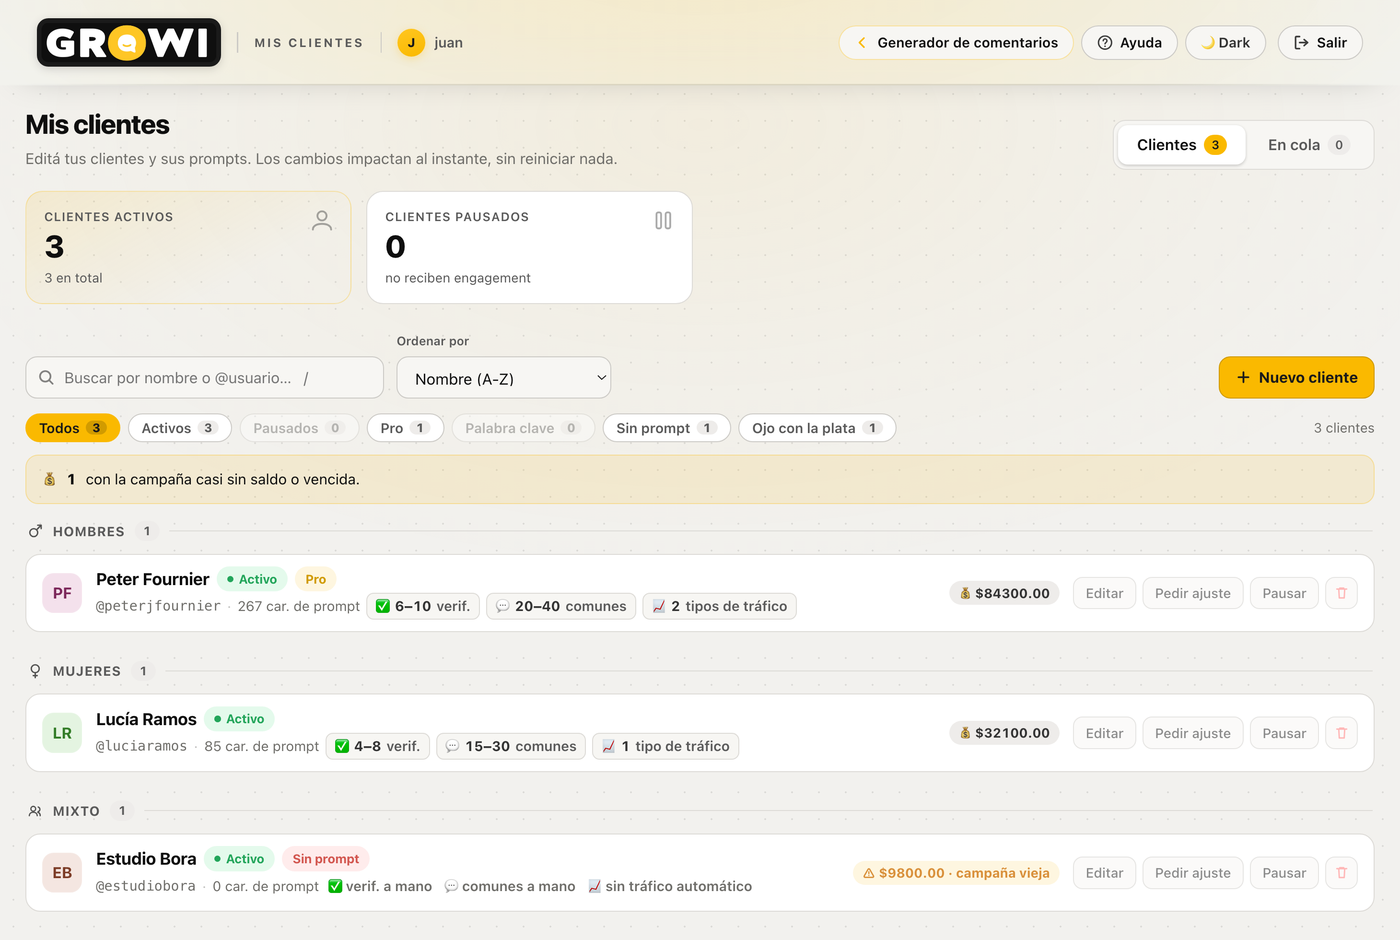
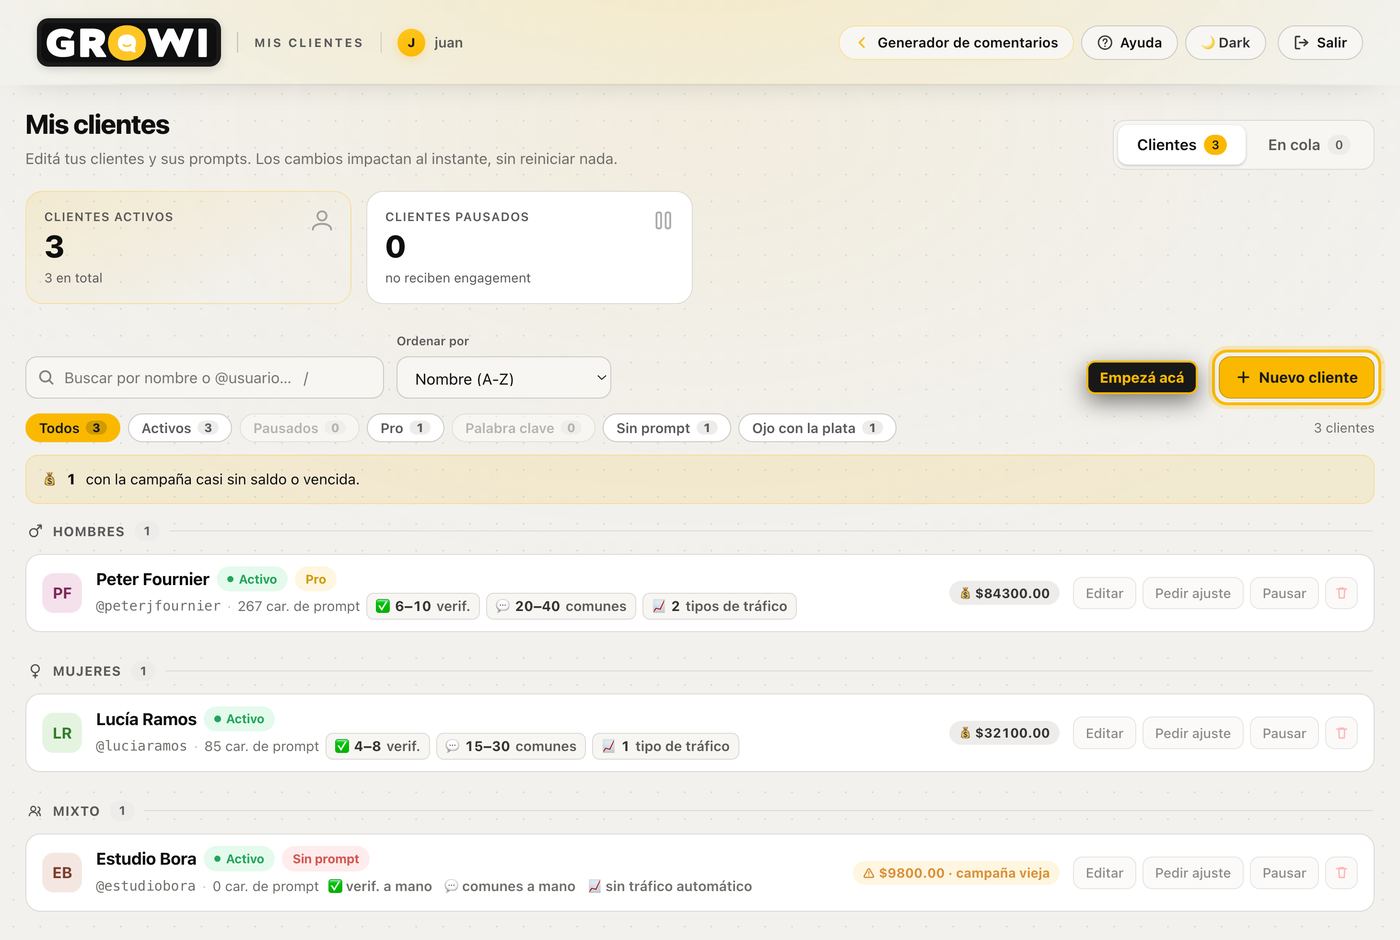
ayuda

Changed region(s): [[0.7679, 0.3702, 1.0, 0.4628]]

diff --git a/webService/templates/ayuda.html b/webService/templates/ayuda.html
@@ -54,10 +54,14 @@
     .ob-step h3 { font-size: 1.01rem; font-weight: 750; letter-spacing: -.01em; }
     .ob-step > div > p { margin-top: 6px; font-size: .87rem; color: var(--muted); line-height: 1.65; max-width: 68ch; }
     .ob-step p b { color: var(--text); font-weight: 650; }
-    .ob-where { display: inline-flex; align-items: center; gap: 6px; margin-top: 8px; font-size: .74rem;
-      color: var(--faint); background: var(--surface2); border: 1px solid var(--border);
-      border-radius: 7px; padding: 4px 9px; }
-    .ob-where b { color: var(--text); font-weight: 650; }
+    /* Abre el panel en otra pestaña: la guía se sigue leyendo al lado mientras
+       se carga el cliente. */
+    .ob-where { display: inline-flex; align-items: center; gap: 7px; margin-top: 10px; font-size: .78rem;
+      color: var(--text); background: var(--surface2); border: 1px solid var(--border);
+      border-radius: 9px; padding: 7px 12px; text-decoration: none; font-weight: 600; }
+    .ob-where:hover { border-color: var(--yellow); background: var(--surface3); }
+    .ob-where b { color: var(--yellow); font-weight: 750; }
+    .ob-where svg { opacity: .65; }
 
     /* Aviso puntual dentro de un paso. */
     .ob-tip { display: flex; gap: 9px; margin-top: 11px; font-size: .82rem; color: var(--muted);
@@ -156,9 +160,9 @@
       </div>
       <div class="header-actions">
         <div class="header-btn-group">
-          <a class="header-action-btn header-action-btn--primary" href="{% if is_admin %}/admin{% else %}/mis-clientes{% endif %}" title="Ir a cargar clientes">
+          <a class="header-action-btn header-action-btn--primary" href="/mis-clientes" target="_blank" rel="noopener" title="Abrir Mis clientes en otra pestaña">
             <svg width="14" height="14" viewBox="0 0 16 16" fill="none"><path d="M8 9a2.2 2.2 0 100-4.4A2.2 2.2 0 008 9z" stroke="currentColor" stroke-width="1.4"/><path d="M2.5 13.5c.7-2.1 2.9-3.1 5.5-3.1s4.8 1 5.5 3.1" stroke="currentColor" stroke-width="1.4" stroke-linecap="round"/></svg>
-            <span>{% if is_admin %}Admin{% else %}Mis clientes{% endif %}</span>
+            <span>Mis clientes</span>
           </a>
           <a class="header-action-btn" href="/" title="Generador de comentarios">
             <svg width="14" height="14" viewBox="0 0 16 16" fill="none"><path d="M2.5 3.5h11v7h-6l-3 2.5v-2.5h-2v-7z" stroke="currentColor" stroke-width="1.4" stroke-linejoin="round"/></svg>
@@ -183,6 +187,11 @@
         <div class="ob-kicker">Onboarding</div>
         <h1>Cargar un cliente, de principio a fin</h1>
         <p>Ocho pasos. Al final tenés una ficha lista y el primer post generándose.</p>
+        <!-- Se trabaja con las dos pestañas al lado: la guía acá, el panel allá. -->
+        <a class="ob-where" href="/mis-clientes" target="_blank" rel="noopener">
+          Abrí <b>Mis clientes</b> en otra pestaña y seguí la guía de este lado
+          <svg width="12" height="12" viewBox="0 0 16 16" fill="none"><path d="M6 2.5h7.5V10" stroke="currentColor" stroke-width="1.6" stroke-linecap="round" stroke-linejoin="round"/><path d="M13.5 2.5L7 9" stroke="currentColor" stroke-width="1.6" stroke-linecap="round"/><path d="M11 13.5H2.5V5" stroke="currentColor" stroke-width="1.6" stroke-linecap="round" stroke-linejoin="round"/></svg>
+        </a>
       </div>
 
       <div class="ob-cols">
@@ -210,7 +219,10 @@
             <div>
               <h3>Abrí la lista de clientes</h3>
               <p>Es la pantalla donde vive todo: una ficha por cada cuenta de Instagram que atendés. Si recién arrancás, está vacía.</p>
-              <div class="ob-where">📍 Header → <b>{% if is_admin %}Admin{% else %}Mis clientes{% endif %}</b></div>
+              <a class="ob-where" href="/mis-clientes" target="_blank" rel="noopener">
+                Abrir <b>Mis clientes</b> en otra pestaña
+                <svg width="12" height="12" viewBox="0 0 16 16" fill="none"><path d="M6 2.5h7.5V10" stroke="currentColor" stroke-width="1.6" stroke-linecap="round" stroke-linejoin="round"/><path d="M13.5 2.5L7 9" stroke="currentColor" stroke-width="1.6" stroke-linecap="round"/><path d="M11 13.5H2.5V5" stroke="currentColor" stroke-width="1.6" stroke-linecap="round" stroke-linejoin="round"/></svg>
+              </a>
               <figure class="ob-fig">
                 <img class="ob-dark" src="/static/onboarding/paso-1.png?v=1" alt="Paso 1" onclick="zoom(this)" />
                 <img class="ob-light" src="/static/onboarding/paso-1-light.png?v=1" alt="Paso 1" onclick="zoom(this)" />
@@ -315,7 +327,10 @@
               <h3>Guardá y probá con un post real</h3>
               <p>Los cambios impactan al instante: no hay que publicar ni reiniciar nada. Andá al generador, pegá un post de ese cliente y fijate que arriba de la lista aparezca su nombre — eso confirma que el @usuario quedó bien.</p>
               <p>Leé los primeros comentarios antes de publicar. Si no suenan al cliente, el prompt necesita otra vuelta: es normal ajustarlo dos o tres veces la primera semana.</p>
-              <div class="ob-where">📍 Header → <b>Comentarios</b> → pegar el link</div>
+              <a class="ob-where" href="/" target="_blank" rel="noopener">
+                Abrir el <b>generador</b> en otra pestaña
+                <svg width="12" height="12" viewBox="0 0 16 16" fill="none"><path d="M6 2.5h7.5V10" stroke="currentColor" stroke-width="1.6" stroke-linecap="round" stroke-linejoin="round"/><path d="M13.5 2.5L7 9" stroke="currentColor" stroke-width="1.6" stroke-linecap="round"/><path d="M11 13.5H2.5V5" stroke="currentColor" stroke-width="1.6" stroke-linecap="round" stroke-linejoin="round"/></svg>
+              </a>
               <figure class="ob-fig">
                 <img class="ob-dark" src="/static/onboarding/paso-8.png?v=1" alt="Paso 8" onclick="zoom(this)" />
                 <img class="ob-light" src="/static/onboarding/paso-8-light.png?v=1" alt="Paso 8" onclick="zoom(this)" />
@@ -396,7 +411,7 @@
             </details>
           </section>
 
-          <p class="ob-foot">¿Falta algo? Pedile a tu administrador que lo sume. <a href="{% if is_admin %}/admin{% else %}/mis-clientes{% endif %}">Ir a cargar un cliente</a></p>
+          <p class="ob-foot">¿Falta algo? Pedile a tu administrador que lo sume. <a href="/mis-clientes" target="_blank" rel="noopener">Ir a cargar un cliente ↗</a></p>
         </div>
       </div>
 

diff --git a/scripts/capturas_onboarding/harness.py b/scripts/capturas_onboarding/harness.py
@@ -74,6 +74,22 @@ def api_response(path):
     return {}
 
 
+
+# Marcas que se dibujan encima de cada captura: (selector, texto, lado).
+# Se pintan en el navegador, así las coordenadas son exactas y quedan dentro
+# del PNG (también se ven al abrir la captura en grande).
+ANOTACIONES = {
+    "lista":             [("#btn-new-client", "Empezá acá", "izq")],
+    "ficha-nueva":       [(".ax-prompt-teaser", "Acá adentro se escribe el prompt", "abajo")],
+    "ficha:identidad":   [("#client-ig", "Igual que en Instagram: sin @ ni espacios", "abajo")],
+    "ficha:prompt":      [("#client-keyword-field", "Sólo para posts de sorteo", "arriba")],
+    "ficha:calidad":     [('.ax-field:has(#client-quality) .ax-opt-b[data-val="pro"]',
+                           "Más caro: sólo si el cliente lo nota", "arriba")],
+    "ficha:comentarios": [(".ax-com-card:has(#com-comunes-min)", "Estos salen en 2 tandas", "arriba")],
+    "ficha:trafico":     [("#client-venta", "De acá sale la plata", "arriba")],
+    "gen":               [("#ig-link", "Pegá el link del post", "abajo")],
+}
+
 # Se inyecta antes del JS de la app. Prepara la escena de cada captura (?shot=)
 # una vez que la interfaz terminó de renderizar.
 SHOT_JS = r"""
@@ -84,6 +100,52 @@ window.__shot = _p.get("shot") || "";
 if (_p.get("tema") === "light") {
   document.addEventListener("DOMContentLoaded", () => document.body.classList.add("light"));
 }
+
+// ── Marcas encima de la captura ─────────────────────────────────────────────
+// Un aro amarillo sobre el elemento y un cartelito al lado. Se dibujan al final,
+// cuando la escena ya está armada: antes las coordenadas serían las de otro
+// layout.
+const ANOTACIONES = __ANOTACIONES__;
+function dibujarMarcas() {
+  for (const [sel, texto, lado] of ANOTACIONES) {
+    const el = document.querySelector(sel);
+    if (!el) { console.warn("anotación sin elemento:", sel); continue; }
+    const r = el.getBoundingClientRect();
+    // Si el elemento quedó fuera de la captura, el cartel se pegaría contra un
+    // borde señalando a la nada: mejor no dibujar nada.
+    if (r.bottom > window.innerHeight - 8 || r.top < 8) {
+      console.warn("anotación fuera de la captura:", sel); continue;
+    }
+    // Las coordenadas del rect ya vienen con el zoom de .app aplicado; el
+    // overlay va en el body (sin zoom), así que se usan tal cual.
+    const aro = document.createElement("div");
+    aro.style.cssText = `position:fixed;left:${r.left - 7}px;top:${r.top - 7}px;
+      width:${r.width + 14}px;height:${r.height + 14}px;border:3px solid #FAB900;
+      border-radius:${Math.min(16, r.height / 2 + 8)}px;box-shadow:0 0 0 4px rgba(250,185,0,.22);
+      pointer-events:none;z-index:9999;`;
+    document.body.appendChild(aro);
+
+    const cartel = document.createElement("div");
+    cartel.textContent = texto;
+    cartel.style.cssText = `position:fixed;z-index:9999;background:#181818;color:#FAB900;
+      border:2px solid #FAB900;font-family:Inter,system-ui,sans-serif;font-weight:750;
+      font-size:15px;line-height:1.25;padding:6px 12px;border-radius:9px;max-width:290px;
+      box-shadow:0 8px 24px rgba(0,0,0,.5);`;
+    document.body.appendChild(cartel);
+    const c = cartel.getBoundingClientRect();
+    let x, y;
+    if (lado === "izq")        { x = r.left - c.width - 22;  y = r.top + r.height / 2 - c.height / 2; }
+    else if (lado === "arriba"){ x = r.left;                 y = r.top - c.height - 16; }
+    else                       { x = r.left;                 y = r.bottom + 16; }
+    // Que no se vaya de la captura.
+    x = Math.max(12, Math.min(x, window.innerWidth - c.width - 12));
+    y = Math.max(12, Math.min(y, window.innerHeight - c.height - 12));
+    cartel.style.left = x + "px";
+    cartel.style.top = y + "px";
+
+  }
+}
+
 window.addEventListener("load", () => setTimeout(() => {
   const s = window.__shot;
   // Deja en la página SOLO el elemento pedido, con un margen parejo alrededor.
@@ -100,17 +162,17 @@ window.addEventListener("load", () => setTimeout(() => {
     w.classList.add("app");
   };
 
-  if (!s.startsWith("ficha")) return;             // la pantalla entera
+  if (!s.startsWith("ficha")) { dibujarMarcas(); return; }   // la pantalla entera
 
   openClientModal(s === "ficha-nueva" ? undefined : 1);
   setTimeout(() => {
     const modal = document.querySelector("#client-mo .ax-modal");
-    if (s === "ficha" || s === "ficha-nueva") { modal.style.maxHeight = "none"; solo(modal); return; }
+    if (s === "ficha" || s === "ficha-nueva") { modal.style.maxHeight = "none"; solo(modal); setTimeout(dibujarMarcas, 60); return; }
     // El editor del prompt sólo existe a pantalla completa: el modal normal
     // muestra el teaser, no el textarea.
     if (s === "ficha:prompt") {
       togglePromptFull();
-      setTimeout(() => { modal.style.height = "620px"; solo(modal); }, 250);
+      setTimeout(() => { modal.style.height = "620px"; solo(modal); setTimeout(dibujarMarcas, 60); }, 250);
       return;
     }
     const que = s.split(":")[1];
@@ -125,6 +187,7 @@ window.addEventListener("load", () => setTimeout(() => {
     // De Comentarios interesa sólo el bloque de cantidades: con la sección
     // entera entra también el prompt y el foco se pierde.
     solo(que === "comentarios" ? el.querySelector(".ax-field:last-child") : el);
+    setTimeout(dibujarMarcas, 60);
   }, 700);
 }, 500));
 </script>
@@ -164,7 +227,12 @@ class H(BaseHTTPRequestHandler):
                "ayuda.html" if path == "/ayuda" else "admin.html")
         html = env.get_template(tpl).render(username="juan", is_admin=False, account_id=7)
         # El stub va antes que el JS de la app: ninguna llamada real sale.
-        html = html.replace("</head>", SHOT_JS + "</head>", 1)
+        shot = ""
+        for parte in self.path.split("?")[-1].split("&"):
+            if parte.startswith("shot="):
+                shot = parte[5:]
+        anotaciones = json.dumps(ANOTACIONES.get(shot, []))
+        html = html.replace("</head>", SHOT_JS.replace("__ANOTACIONES__", anotaciones) + "</head>", 1)
         return self._send(200, html, "text/html; charset=utf-8")
 
 
